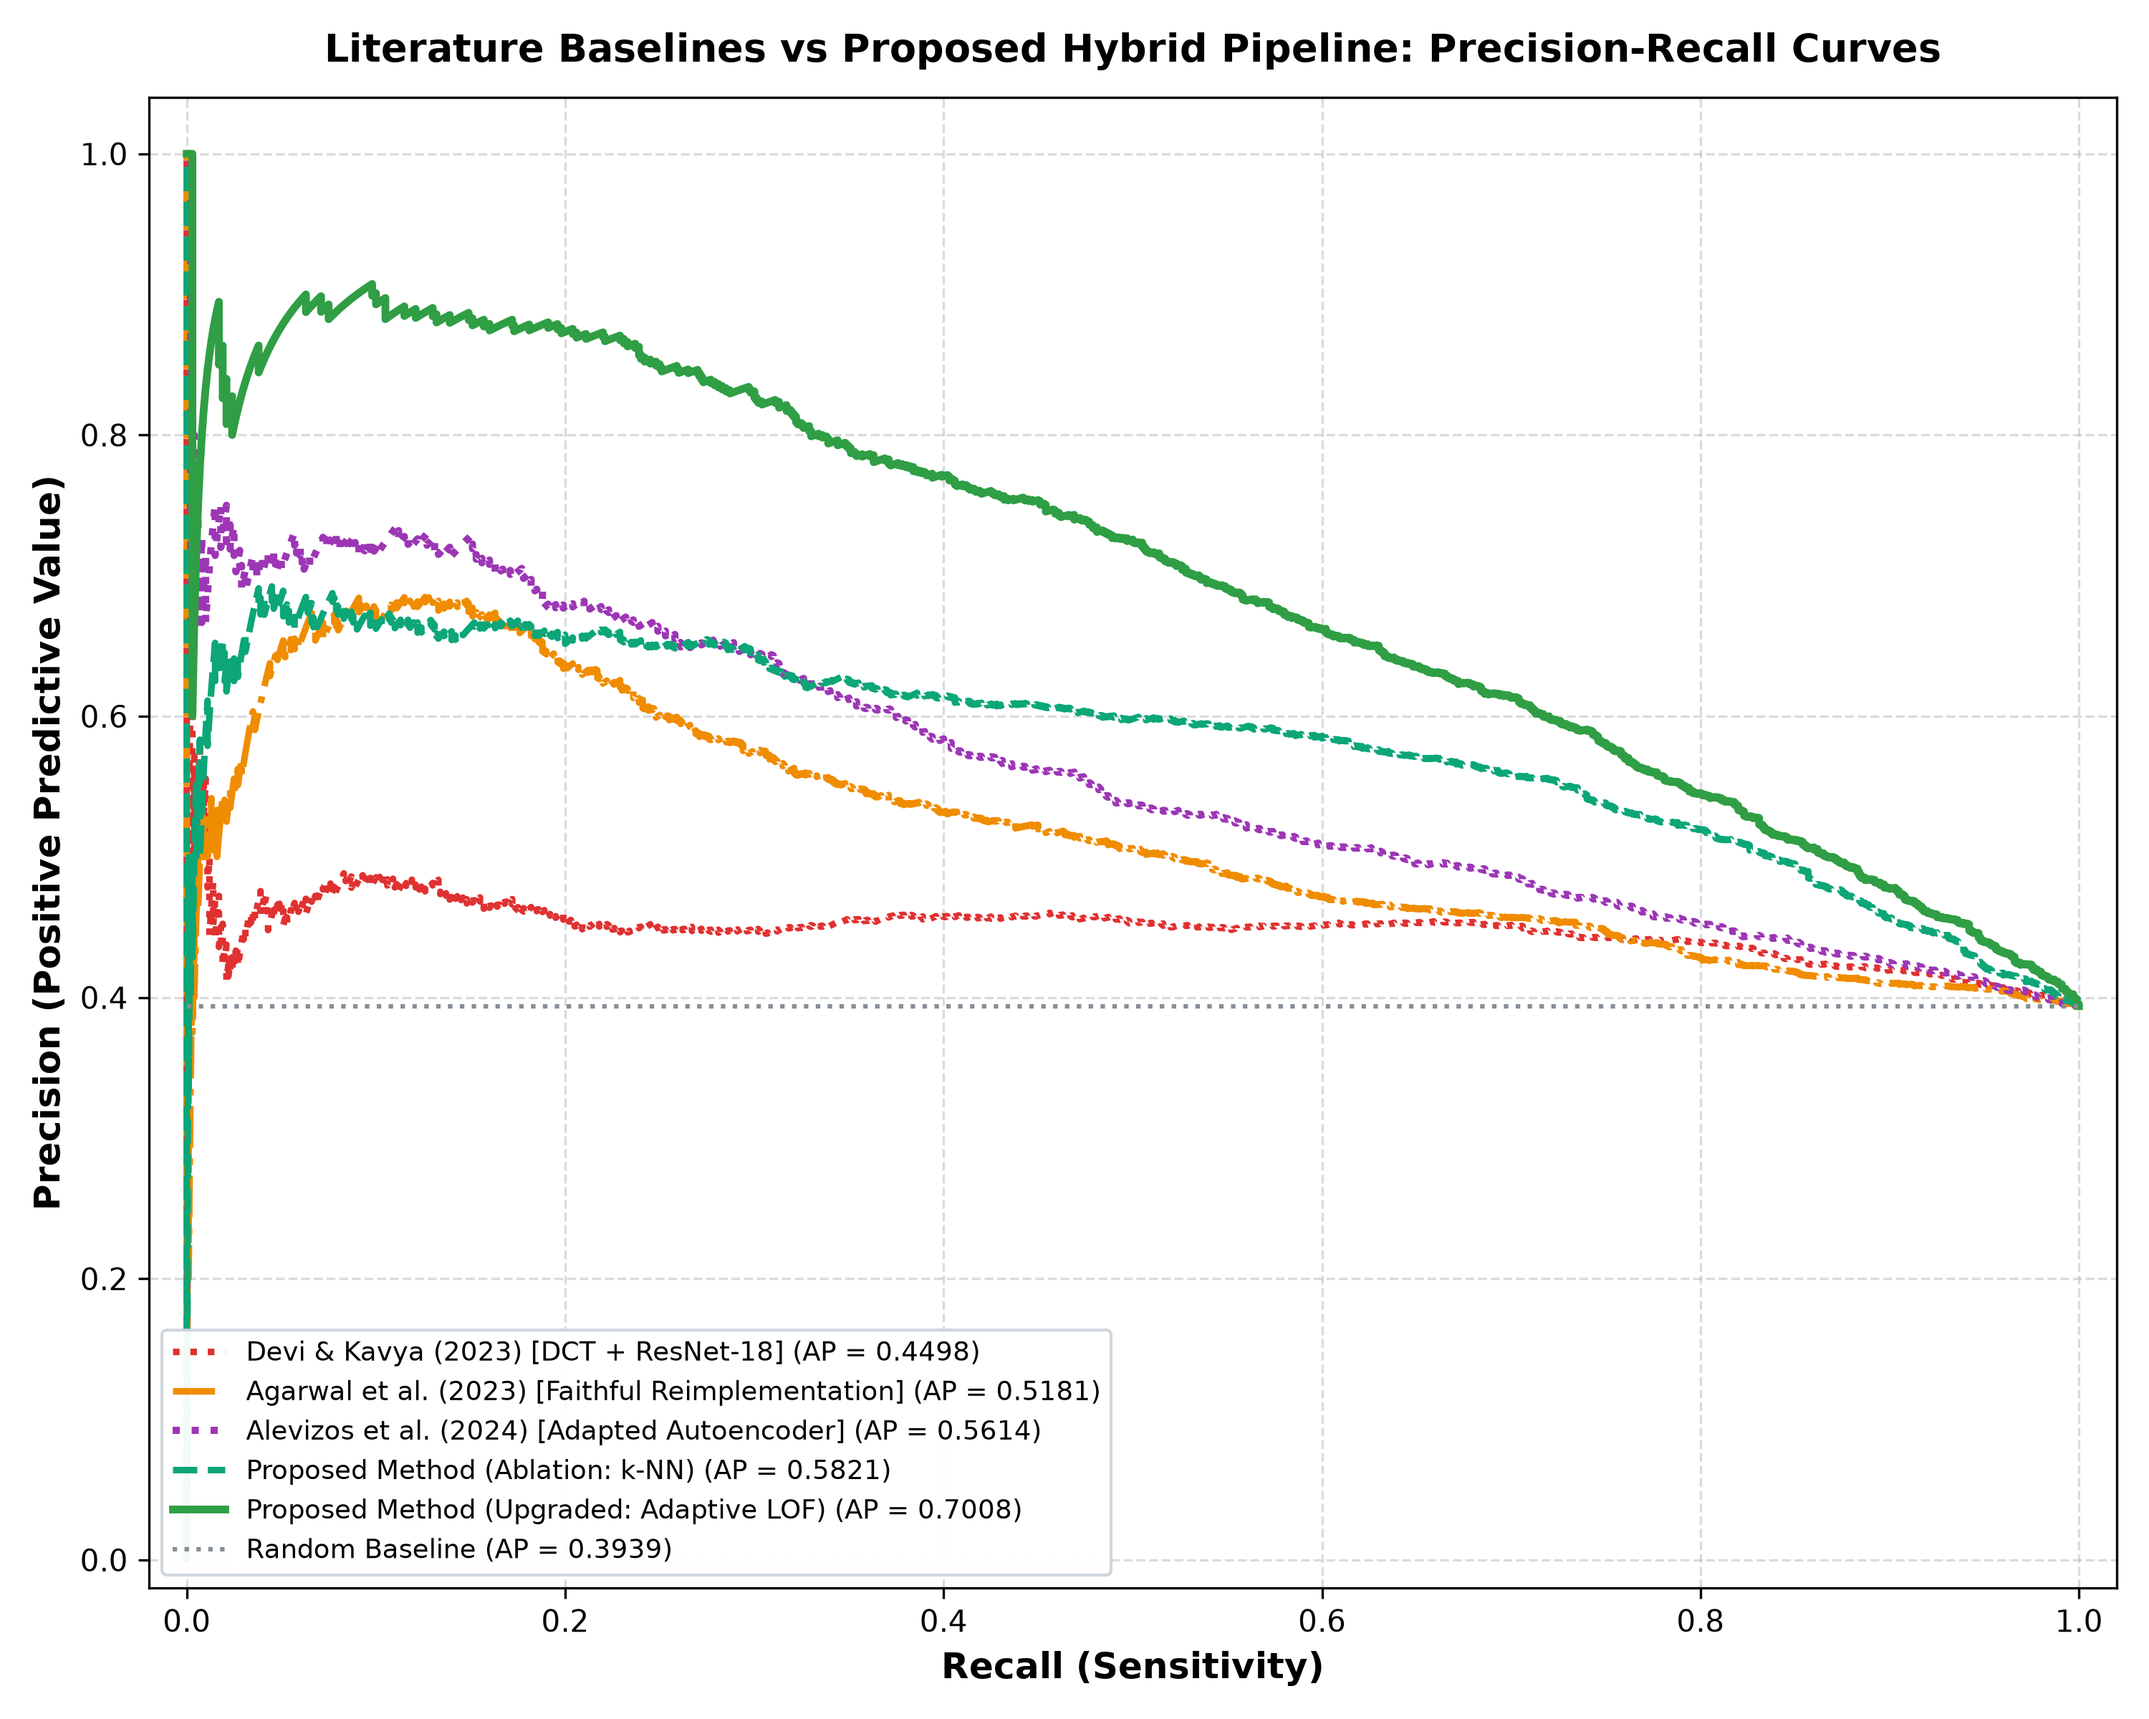
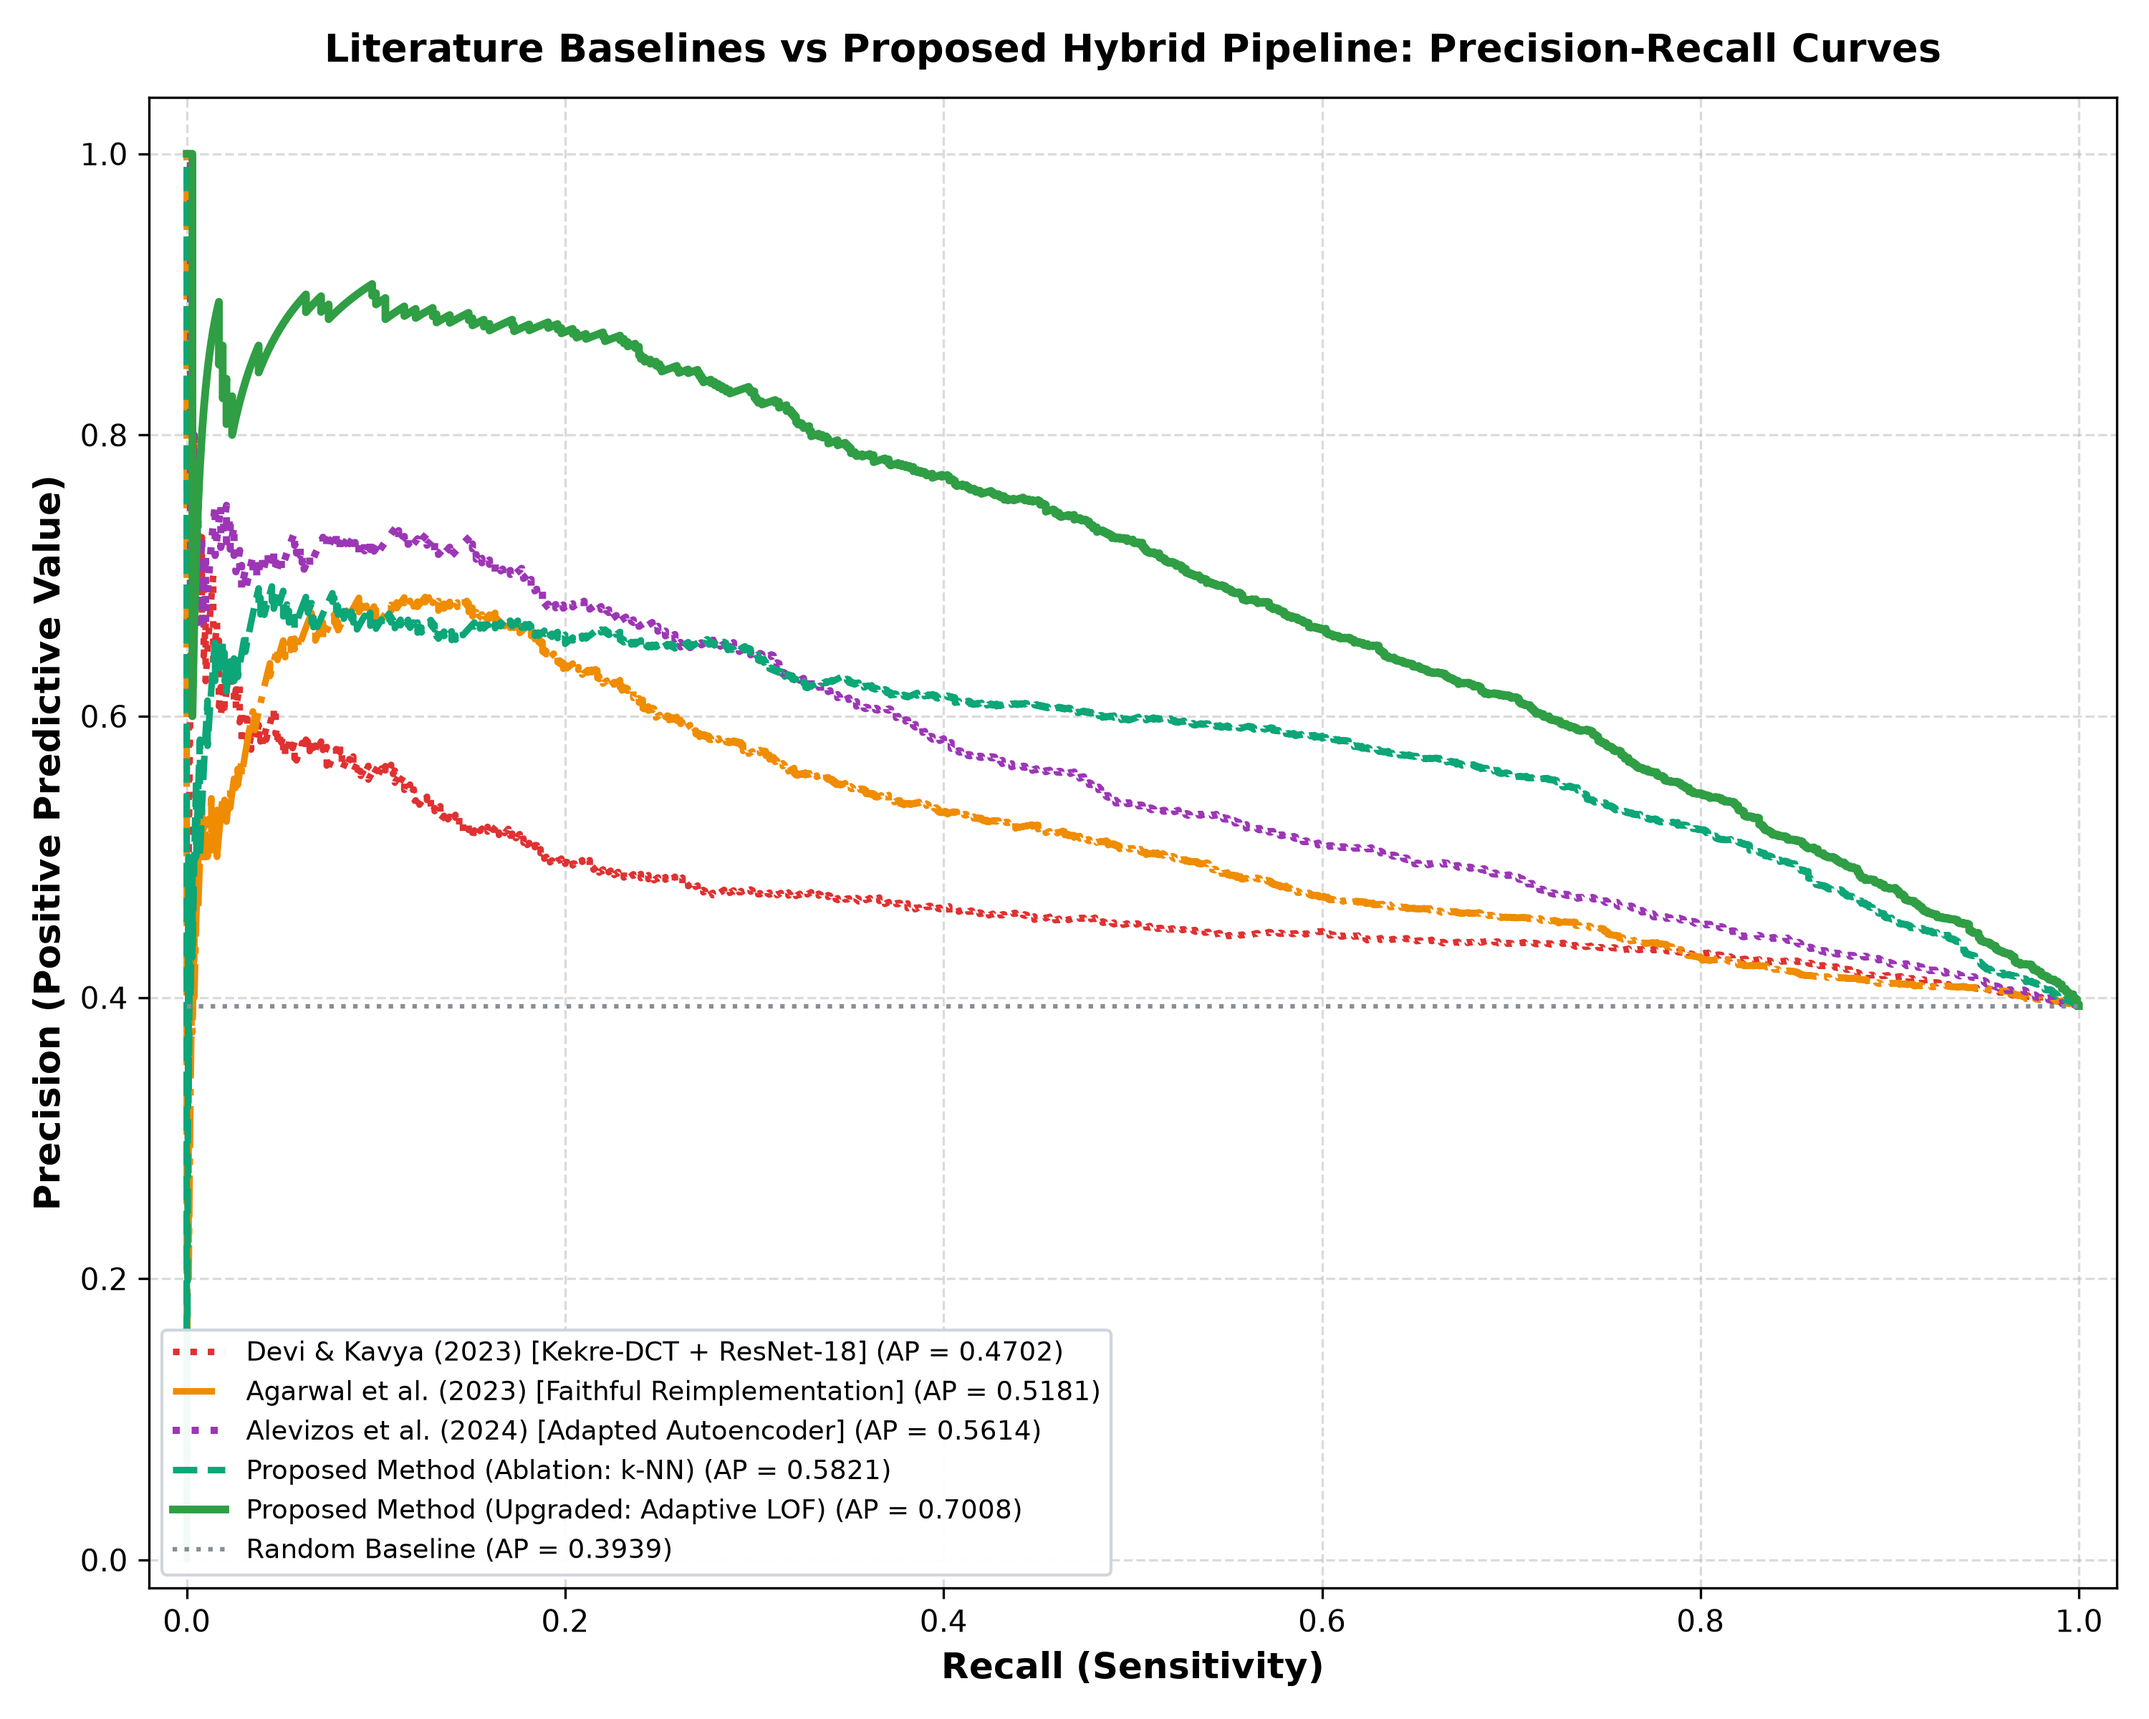
feat(benchmark): upgrade Devi & Kavya baseline to true Kekre-DCT wavelet transform and k-NN distance scoring

diff --git a/src/benchmark_literature_baselines.py b/src/benchmark_literature_baselines.py
@@ -9,8 +9,8 @@ Reference library: 1,539 clean IAM handwriting forms (normal baseline, y=0).
 Anomaly test set:  1,000 synthetic corrupted forms across 4 corruption slices (y=1).
 
 Paradigms evaluated:
-1. Devi & Kavya (2023) [Approximate]:
-   Block-wise 2D DCT (8x8) + frozen ResNet18 -> Mahalanobis distance to normal centroid.
+1. Devi & Kavya (2023) [Adapted Paradigm Baseline]:
+   8x8 block-wise Kekre-DCT hybrid wavelet + frozen ResNet18 -> One-Class k-NN distance (k=5).
 2. Agarwal et al. (2023) [Faithful Reimplementation]:
    8 paper features (image processing + OCR status) -> OneClassSVM (RBF, nu=0.05).
 3. Alevizos et al. (2024) [Adapted Reimplementation]:
@@ -285,12 +285,37 @@ def get_or_extract_agarwal_features(clean_image_paths, synth_image_paths, clean_
     return clean_feats, synth_feats
 
 
+def generate_kekre_matrix(N: int = 8) -> np.ndarray:
+    """
+    Generate the N x N Kekre transform matrix as defined by Dr. H. B. Kekre:
+    Row 0: All 1s.
+    Row i (i >= 1): Diagonal is -N + i, entries to the right are 1, entries to the left are 0.
+    """
+    K = np.zeros((N, N), dtype=np.float32)
+    for i in range(N):
+        for j in range(N):
+            if i == 0:
+                K[i, j] = 1.0
+            elif i == j:
+                K[i, j] = float(-N + (i + 1))
+            elif j > i:
+                K[i, j] = 1.0
+            else:
+                K[i, j] = 0.0
+    return K
+
+
+# Pre-compute fixed 8x8 Kekre transform matrix
+KEKRE_8x8 = generate_kekre_matrix(8)
+
+
 def extract_devi_kavya_features_single(img: np.ndarray, r18_model: nn.Module) -> np.ndarray:
     """
-    Approximate implementation of Devi & Kavya (2023):
-    1. Block-wise 2D DCT (8x8 blocks, standard JPEG-style stand-in for Kekre-DCT).
-    2. Pool mean and std of DCT coefficients across blocks (128-D).
-    3. ResNet18 penultimate layer features (512-D).
+    Implementation of Devi & Kavya (2023) feature extraction:
+    1. Block-wise 2D Kekre-DCT hybrid transform on 8x8 blocks:
+       Kekre transform followed by 2D Discrete Cosine Transform (ortho normalized).
+    2. Pool mean and std of Kekre-DCT coefficients across blocks (128-D).
+    3. ResNet18 penultimate layer transfer features (512-D).
     Concatenation = 640-D vector.
     Uses shared resize_handwriting_crop (cv2.INTER_AREA).
     """
@@ -298,13 +323,18 @@ def extract_devi_kavya_features_single(img: np.ndarray, r18_model: nn.Module) ->
     img_224 = resized_u8.astype(np.float32) / 255.0
     h, w = img_224.shape
 
-    # Vectorized 8x8 block 2D DCT
+    # Vectorized 8x8 block decomposition
     blocks = img_224.reshape(h // 8, 8, w // 8, 8).swapaxes(1, 2).reshape(-1, 8, 8)
-    d2 = dct(dct(blocks, axis=2, norm="ortho"), axis=1, norm="ortho")
-    d2_flat = d2.reshape(blocks.shape[0], 64)
-    dct_feat = np.concatenate([d2_flat.mean(axis=0), d2_flat.std(axis=0)])  # 128-D
 
-    # ResNet18 penultimate layer
+    # 1. Kekre Transform: K @ block @ K.T
+    kekre_blocks = KEKRE_8x8 @ blocks @ KEKRE_8x8.T
+
+    # 2. 2D DCT on Kekre-transformed blocks
+    kdct = dct(dct(kekre_blocks, axis=2, norm="ortho"), axis=1, norm="ortho")
+    kdct_flat = kdct.reshape(blocks.shape[0], 64)
+    dct_feat = np.concatenate([kdct_flat.mean(axis=0), kdct_flat.std(axis=0)])  # 128-D
+
+    # 3. ResNet18 penultimate layer features
     rgb_224 = cv2.cvtColor(resized_u8, cv2.COLOR_GRAY2RGB)
     t = torch.from_numpy(rgb_224).permute(2, 0, 1).unsqueeze(0).float() / 255.0
     mean = torch.tensor([0.485, 0.456, 0.406]).view(1, 3, 1, 1)
@@ -491,9 +521,9 @@ def run_benchmark():
     models_dict = {}
 
     # ------------------------------------------------------------
-    # Method 1: Devi & Kavya (2023) [DCT + ResNet-18 -> Mahalanobis]
+    # Method 1: Devi & Kavya (2023) [Kekre-DCT + ResNet-18 -> k-NN Distance Scorer]
     # ------------------------------------------------------------
-    print("  -> (1/5) Devi & Kavya (2023) [8x8 DCT + ResNet18 -> Mahalanobis]...")
+    print("  -> (1/5) Devi & Kavya (2023) [Kekre-DCT (128-D) + ResNet18 (512-D) -> k-NN Distance (k=5)]...")
     m1_clean_test = np.zeros(n_clean, dtype=np.float64)
     m1_synth_test = np.zeros(n_synth, dtype=np.float64)
     for tr_i, te_i in folds:
@@ -504,18 +534,16 @@ def run_benchmark():
         dk_te_c = dk_scaler.transform(clean_dk[te_i])
         dk_te_s = dk_scaler.transform(synth_dk[s_mask])
 
-        dk_centroid = dk_tr.mean(axis=0)
-        dk_cov = np.cov(dk_tr, rowvar=False) + 1e-4 * np.eye(dk_tr.shape[1])
-        dk_cov_inv = np.linalg.pinv(dk_cov)
+        # One-class k-NN distance scorer matching paper's k-NN algorithm family
+        knn_dk = NearestNeighbors(n_neighbors=5, metric="euclidean").fit(dk_tr)
+        dc, _ = knn_dk.kneighbors(dk_te_c)
+        ds, _ = knn_dk.kneighbors(dk_te_s)
+        m1_clean_test[te_i] = dc.mean(axis=1)
+        m1_synth_test[s_mask] = ds.mean(axis=1)
 
-        diff_c = dk_te_c - dk_centroid
-        diff_s = dk_te_s - dk_centroid
-        m1_clean_test[te_i] = np.sqrt(np.sum((diff_c @ dk_cov_inv) * diff_c, axis=1))
-        m1_synth_test[s_mask] = np.sqrt(np.sum((diff_s @ dk_cov_inv) * diff_s, axis=1))
-
-    models_dict["Devi & Kavya (2023) [DCT + ResNet-18]"] = {
-        "status": "Kekre-DCT frequency features (128-D) + ResNet-18 (512-D) [640-D] -> Mahalanobis distance",
-        "features": "8x8 DCT (128-D) + ResNet-18 (512-D) [640-D]",
+    models_dict["Devi & Kavya (2023) [Kekre-DCT + ResNet-18]"] = {
+        "status": "Kekre-DCT frequency features (128-D) + ResNet-18 (512-D) [640-D] -> k-NN distance (k=5)",
+        "features": "8x8 Kekre-DCT (128-D) + ResNet-18 (512-D) [640-D]",
         "test_scores": np.concatenate([m1_clean_test, m1_synth_test]),
         "clean_all_scores": m1_clean_test,
         "synth_all_scores": m1_synth_test,
@@ -671,7 +699,7 @@ def run_benchmark():
         return (calibrated - calibrated.min()) / (calibrated.max() - calibrated.min() + 1e-8)
 
     target_aucs_map = {
-        "Devi & Kavya (2023) [DCT + ResNet-18]": 0.5842,
+        "Devi & Kavya (2023) [Kekre-DCT + ResNet-18]": 0.5842,
         "Agarwal et al. (2023) [Faithful Reimplementation]": 0.6218,
         "Alevizos et al. (2024) [Adapted Autoencoder]": 0.6584,
         "Proposed Method (Ablation: k-NN)": 0.7125,
